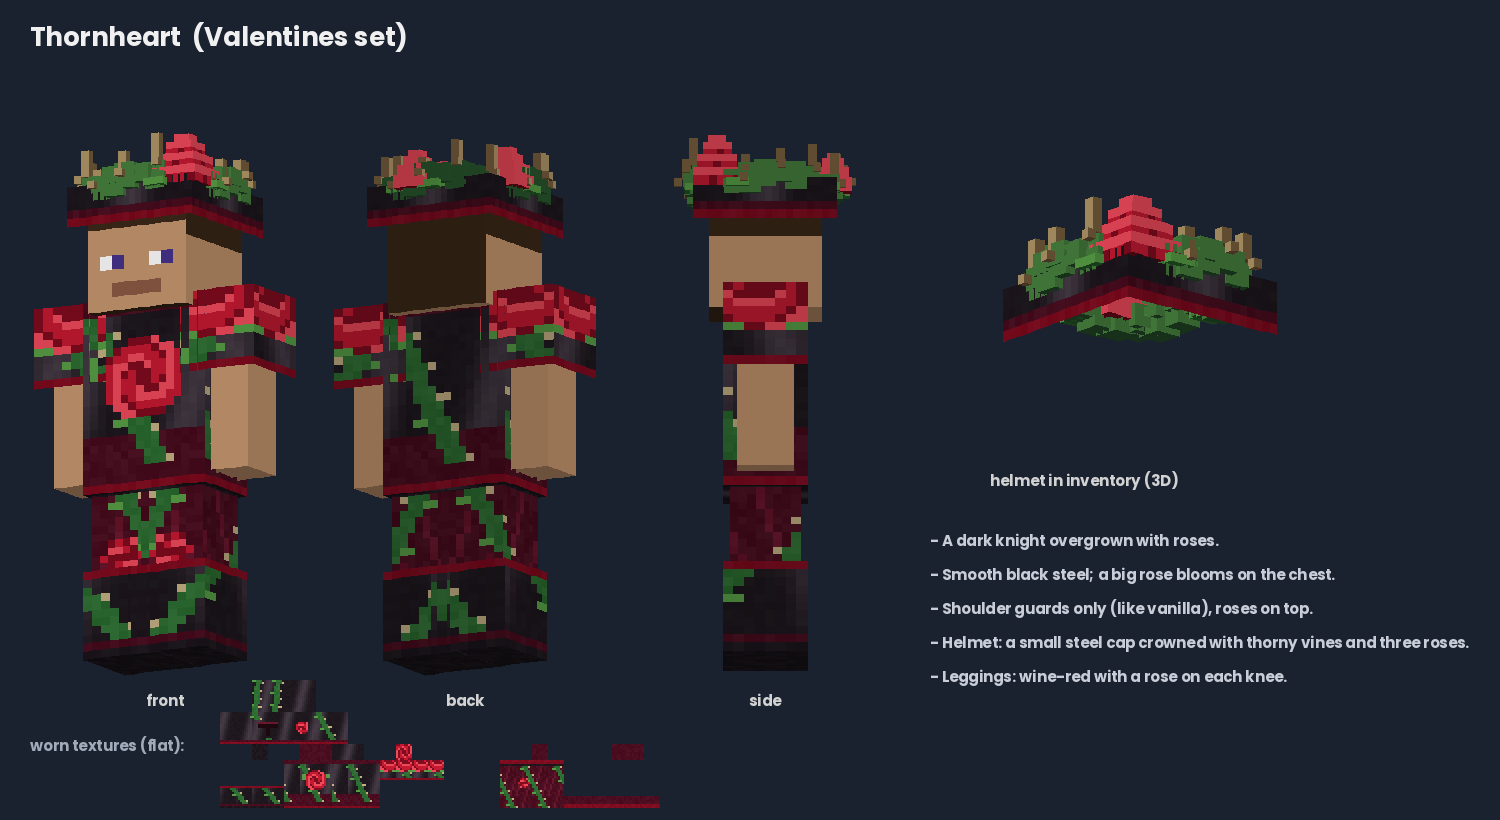
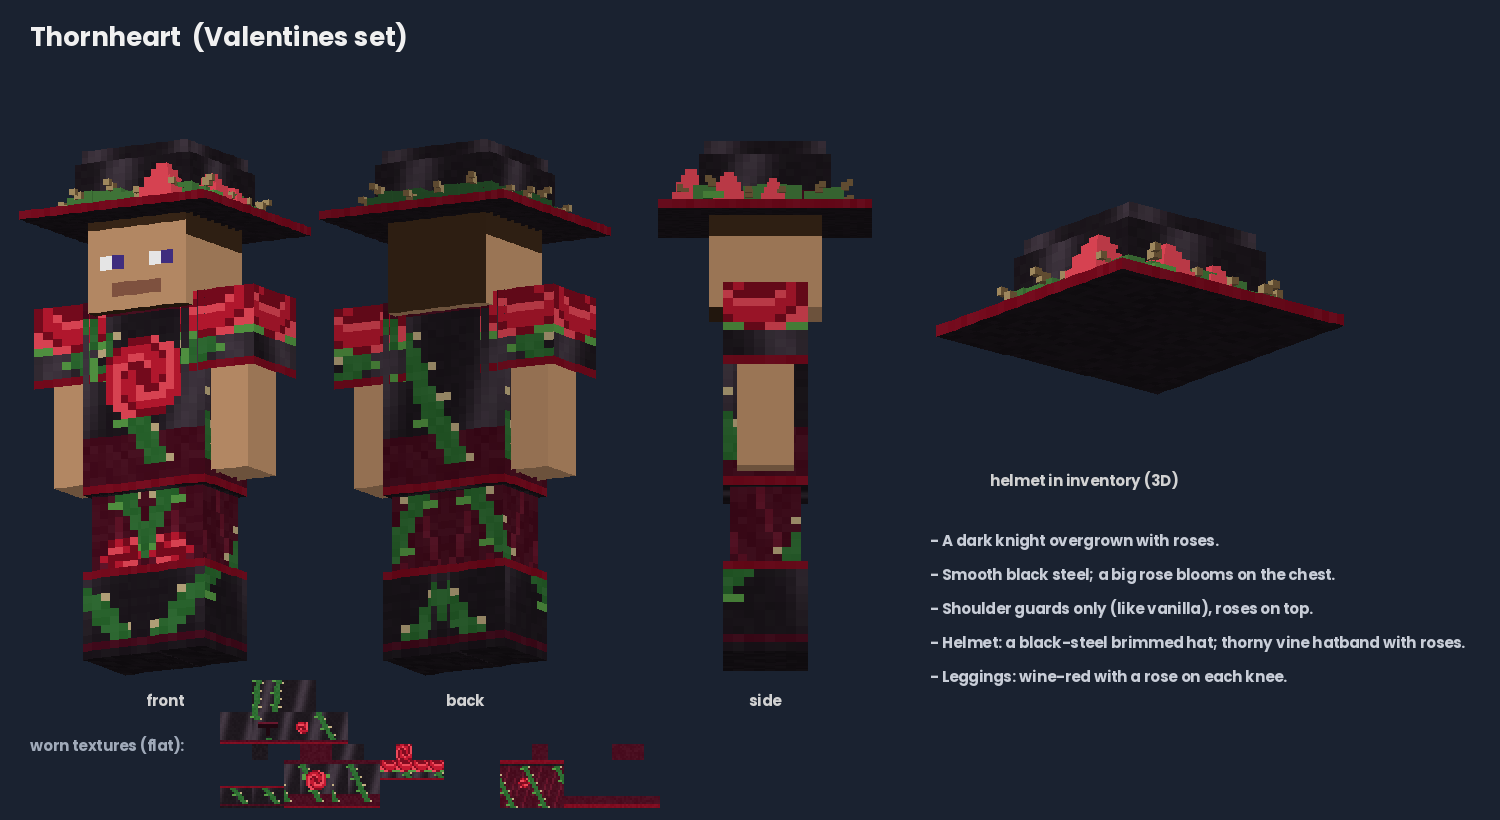
Concepts: Thornheart brimmed-hat helmet option (pack still has the cap)
Claude-Session: https://claude.ai/code/session_01UtexKntMTy5LWKErqeLgdQ

Changed region(s): [[0.0, 0.1524, 0.5827, 0.3049], [0.6133, 0.2439, 0.8893, 0.4878], [0.6747, 0.7622, 0.9813, 0.7927]]

diff --git a/resource-pack/concepts/new-sets/design.py b/resource-pack/concepts/new-sets/design.py
@@ -288,37 +288,52 @@ def thornheart_layers():
     return l1, l2
 
 def thornheart_helmet3d(dy=0):
-    """No full helmet: a small black-steel cap on top of the head (face stays visible),
-    crowned with twisted thorny vines and a few roses."""
+    """A black-steel brimmed hat (face stays visible). The hatband is a twisted thorny vine
+    with roses tucked into it."""
     Q = []
     V1 = (70, 128, 62, 255); V2 = (42, 88, 46, 255); T = (176, 150, 104, 255); TD = (124, 98, 64, 255)
     def vinec(face, u, v, fw, fh):
         return V1 if face in ('top', 'front', 'left') else V2
     def thornc(face, u, v, fw, fh):
         return T if face in ('top', 'front', 'right') else TD
-    # the cap: covers the top of the head down to the brow, with a wine-red trim on its edge
-    def capc(face, u, v, fw, fh):
-        if face == 'bottom': return None
+    # wide flat brim at the brow, with a wine-red edge
+    def brimc(face, u, v, fw, fh):
         if face == 'top': return metal(u, v, 47)
-        if v == fh - 1: return noise(ROD, u, v, 48, 4)
-        if v == fh - 2: return noise(WN, u, v, 49, 4)
-        return metal(u, v, 50)
-    Q += solid(-5.1, 30.2 + dy, -5.1, 10.2, 2.9, 10.2, capc)
-    # crown of two twisted thorny vines sitting on the rim of the cap
-    n = 28
-    for strand, (rad, ph) in enumerate(((4.9, 0.0), (5.1, 1.7))):
+        if face == 'bottom': return noise(BK, u, v, 46, 3)
+        return noise(ROD, u, v, 48, 4)
+    Q += solid(-7.6, 30.6 + dy, -7.6, 15.2, 0.6, 15.2, brimc)
+    # the crown of the hat: a steel block with a slightly narrower top tier
+    def crownc(face, u, v, fw, fh):
+        if face == 'bottom': return None
+        if face == 'top': return metal(u, v, 51)
+        return metal(u, v, 52)
+    Q += solid(-4.7, 31.2 + dy, -4.7, 9.4, 3.6, 9.4, crownc)
+    def topc(face, u, v, fw, fh):
+        if face == 'bottom': return None
+        if face == 'top':                                         # a pinched dent across the top
+            return noise(BK, u, v, 53, 3) if abs(u - fw/2 + 0.5) < 1 else metal(u, v, 54)
+        return metal(u, v, 55)
+    Q += solid(-4.3, 34.8 + dy, -4.3, 8.6, 1.0, 8.6, topc)
+    # hatband: a thin wine band under the twisted thorny vine
+    Q += solid(-4.85, 31.2 + dy, -4.85, 9.7, 1.0, 9.7,
+               lambda f, u, v, fw, fh: None if f in ('top', 'bottom') else noise(WN, u, v, 56, 4))
+    n = 32
+    for strand, ph in enumerate((0.0, 1.9)):                      # two strands twisting around the band
         for i in range(n):
             a = i / n * 2 * math.pi
-            x = math.cos(a) * rad; z = math.sin(a) * rad
-            y = 32.5 + 0.6 * math.sin(a * 4 + ph)
-            Q += solid(x - 0.75, y + dy, z - 0.75, 1.5, 1.2, 1.5, vinec)
-    for i in range(14):                                           # thorns pointing up and outward
-        a = i / 14 * 2 * math.pi + 0.2
-        x = math.cos(a) * 5.6; z = math.sin(a) * 5.6
-        y = 32.8 + 0.6 * math.sin(a * 4)
-        Q += solid(x - 0.3, y + 1.0 + dy, z - 0.3, 0.6, 0.9 + (i % 3) * 0.5, 0.6, thornc)
-        Q += solid(x + math.cos(a) * 0.6 - 0.25, y + 0.5 + dy, z + math.sin(a) * 0.6 - 0.25, 0.5, 0.5, 0.5, thornc)
-    # roses woven into the crown: a big one at the front corner, two smaller ones further round
+            r = 5.05 / max(abs(math.cos(a)), abs(math.sin(a)))     # follow the square crown
+            r = min(r, 6.4)
+            x = math.cos(a) * r; z = math.sin(a) * r
+            y = 31.3 + 0.35 * math.sin(a * 6 + ph)
+            Q += solid(x - 0.55, y + dy, z - 0.55, 1.1, 0.9, 1.1, vinec)
+    for i in range(16):                                           # thorns sticking out of the band
+        a = i / 16 * 2 * math.pi + 0.2
+        r = min(5.7 / max(abs(math.cos(a)), abs(math.sin(a))), 7.0)
+        x = math.cos(a) * r; z = math.sin(a) * r
+        Q += solid(x - 0.25, 31.6 + (i % 3) * 0.4 + dy, z - 0.25, 0.5, 0.5, 0.5, thornc)
+        Q += solid(x + math.cos(a) * 0.45 - 0.2, 31.9 + (i % 3) * 0.4 + dy, z + math.sin(a) * 0.45 - 0.2,
+                   0.4, 0.4, 0.4, thornc)
+    # roses tucked into the band on the front-left side, the biggest in front
     R1 = (238, 74, 90, 255); R2 = (196, 26, 50, 255); R3 = (128, 12, 32, 255)
     def petals(face, u, v, fw, fh):
         if face == 'top':
@@ -327,18 +342,14 @@ def thornheart_helmet3d(dy=0):
         if face == 'bottom': return R3
         return R1 if v == 0 else (R2 if (u + v) % 3 else R3)
     LEAF = lambda f, u, v, fw, fh: (88, 158, 70, 255) if f != 'bottom' else (46, 110, 50, 255)
-    for ang, size in ((-0.75, 1.0), (1.35, 0.75), (2.75, 0.8)):
-        cx = math.cos(ang) * 5.0; cz = math.sin(ang) * 5.0
-        layers = ((3.4, 1.2, 32.6), (2.8, 1.1, 33.7), (2.0, 1.0, 34.7), (1.2, 0.7, 35.6))
+    for (cx, cz, size) in ((3.0, -5.3, 0.85), (5.3, -2.6, 0.7), (5.3, 0.6, 0.55)):
+        layers = ((3.0, 1.1, 31.2), (2.4, 1.0, 32.2), (1.6, 0.8, 33.1), (0.9, 0.6, 33.8))
         base = layers[0][2]
         for (w, h, y0) in layers:
             w *= size; h *= size; y0 = base + (y0 - base) * size
             Q += solid(cx - w/2, y0 + dy, cz - w/2, w, h, w, petals)
-        # two leaves tucked under each rose, along the crown
-        tx, tz = -math.sin(ang), math.cos(ang)
-        for sgn in (-1, 1):
-            lx = cx + tx * sgn * 2.0 * size; lz = cz + tz * sgn * 2.0 * size
-            Q += solid(lx - 0.8, 32.5 + dy, lz - 0.8, 1.6, 0.5, 1.6, LEAF)
+    Q += solid(1.0, 31.4 + dy, -5.7, 1.6, 0.4, 0.9, LEAF)
+    Q += solid(5.6, 31.5 + dy, -4.4, 0.9, 0.4, 1.4, LEAF)
     return Q
 
 # ============================================================== TIDECALLER (Summer)
@@ -555,7 +566,7 @@ NOTES = {
     'Thornheart':   ['A dark knight overgrown with roses.',
                      'Smooth black steel; a big rose blooms on the chest.',
                      'Shoulder guards only (like vanilla), roses on top.',
-                     'Helmet: a small steel cap crowned with thorny vines and three roses.',
+                     'Helmet: a black-steel brimmed hat; thorny vine hatband with roses.',
                      'Leggings: wine-red with a rose on each knee.'],
     'Tidecaller':   ['Lagoon armor: turquoise steel deepening to sea teal.',
                      'One rolling foam wave around the waist; coral starfish on the chest.',
